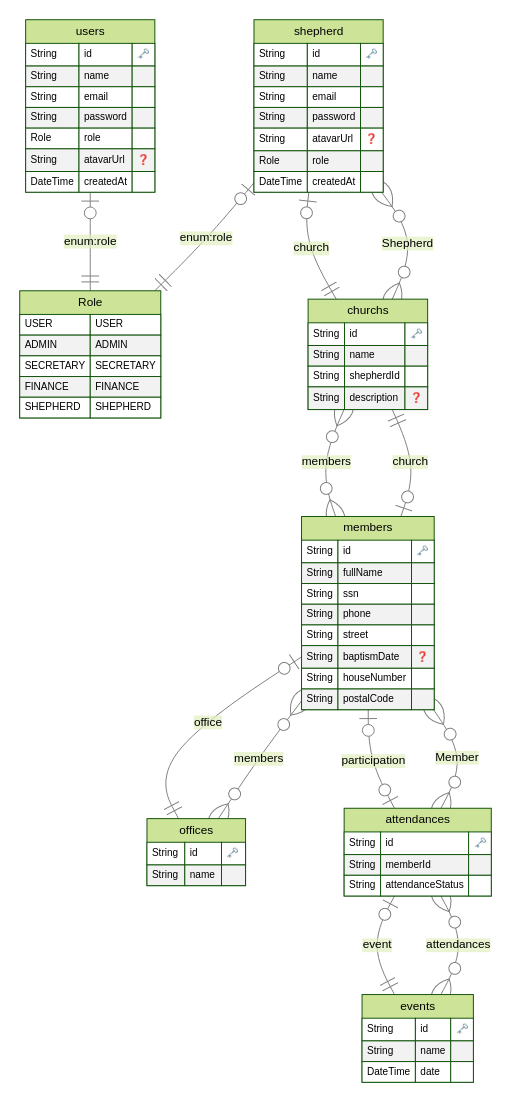
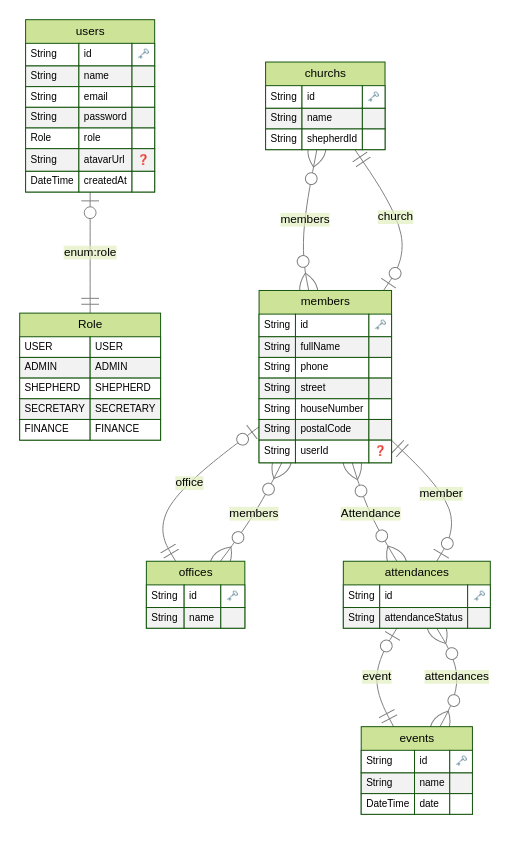
feat: reverse schema

diff --git a/src/modules/member/repositories/prisma/members.prisma.repository.ts b/src/modules/member/repositories/prisma/members.prisma.repository.ts
@@ -9,15 +9,8 @@ import { IMembersRepository } from '../members.repository';
 export class MembersRepository implements IMembersRepository {
   constructor(private readonly prisma: PrismaService) {}
 
-  async findAll(id?: string): Promise<Member[]> {
+  async findAll(): Promise<Member[]> {
     const members = await this.prisma.member.findMany({
-      where: {
-        church: {
-          shepherd: {
-            id,
-          },
-        },
-      },
       select: {
         id: true,
         fullName: true,
@@ -25,18 +18,7 @@ export class MembersRepository implements IMembersRepository {
         street: true,
         houseNumber: true,
         postalCode: true,
-        church: {
-          select: {
-            id: true,
-            name: true,
-            shepherd: {
-              select: {
-                id: true,
-                name: true,
-              },
-            },
-          },
-        },
+        church: true,
         office: {
           select: {
             id: true,
@@ -57,12 +39,6 @@ export class MembersRepository implements IMembersRepository {
           select: {
             id: true,
             name: true,
-            shepherd: {
-              select: {
-                id: true,
-                name: true,
-              },
-            },
           },
         },
       },
@@ -84,12 +60,6 @@ export class MembersRepository implements IMembersRepository {
           select: {
             id: true,
             name: true,
-            shepherd: {
-              select: {
-                id: true,
-                name: true,
-              },
-            },
           },
         },
         office: {

diff --git a/src/modules/auth/useCases/signup-usecase.ts b/src/modules/auth/useCases/signup-usecase.ts
@@ -1,9 +1,9 @@
 import { ConflictException, Injectable } from '@nestjs/common';
 
-import { IAuthRepository } from '../repositories/auth.repository';
-import { hash } from 'bcryptjs';
 import { JwtService } from '@nestjs/jwt';
+import { hash } from 'bcryptjs';
 import { SignupDto } from '../dto/signup.schema';
+import { IAuthRepository } from '../repositories/auth.repository';
 
 @Injectable()
 export class SignupUseCase {
@@ -23,7 +23,7 @@ export class SignupUseCase {
 
     const hashedPassword = await hash(password, 12);
 
-    const user = await this.authRepository.save({
+    const user = await this.authRepository.create({
       name,
       email,
       password: hashedPassword,

diff --git a/src/modules/auth/repositories/auth.repository.ts b/src/modules/auth/repositories/auth.repository.ts
@@ -1,7 +1,7 @@
-import { CreateUserDto } from 'src/modules/user/dto/user.dto';
 import { UserCreatedDTO } from '../dto/auth.dto';
+import { SignupDto } from '../dto/signup.schema';
 
 export abstract class IAuthRepository {
-  abstract save(data: CreateUserDto): Promise<UserCreatedDTO>;
+  abstract create(data: SignupDto): Promise<UserCreatedDTO>;
   abstract findByEmail(email: string): Promise<UserCreatedDTO | null>;
 }

diff --git a/src/modules/auth/repositories/prisma/auth.prisma.repository.ts b/src/modules/auth/repositories/prisma/auth.prisma.repository.ts
@@ -8,7 +8,7 @@ import { UserCreatedDTO } from '../../dto/auth.dto';
 export class AuthPrismaRepository implements IAuthRepository {
   constructor(private prisma: PrismaService) {}
 
-  async save(data: UserCreatedDTO): Promise<UserCreatedDTO> {
+  async create(data: UserCreatedDTO): Promise<UserCreatedDTO> {
     return await this.prisma.user.create({
       data,
     });

diff --git a/src/modules/church/useCases/update-church.usecase.ts b/src/modules/church/useCases/update-church.usecase.ts
@@ -1,6 +1,6 @@
 import { Injectable, NotFoundException } from '@nestjs/common';
-import { IChurchRepository } from '../repositories/church.repository';
 import { UpdateChurchDto } from '../dto/update-church.dto';
+import { IChurchRepository } from '../repositories/church.repository';
 
 @Injectable()
 export class UpdateChurchUseCase {

diff --git a/src/modules/user/repositories/prisma/user.prisma.repository.ts b/src/modules/user/repositories/prisma/user.prisma.repository.ts
@@ -56,11 +56,6 @@ export class UsersRepository implements IUsersRepository {
         role: true,
         atavarUrl: true,
         createdAt: true,
-        church: {
-          select: {
-            name: true,
-          },
-        },
       },
     });
     return user;

diff --git a/src/modules/member/dto/member.dto.ts b/src/modules/member/dto/member.dto.ts
@@ -10,9 +10,5 @@ export type Member = {
   church?: {
     id: string;
     name: string;
-    shepherd: {
-      id: string;
-      name: string;
-    };
   };
 };
